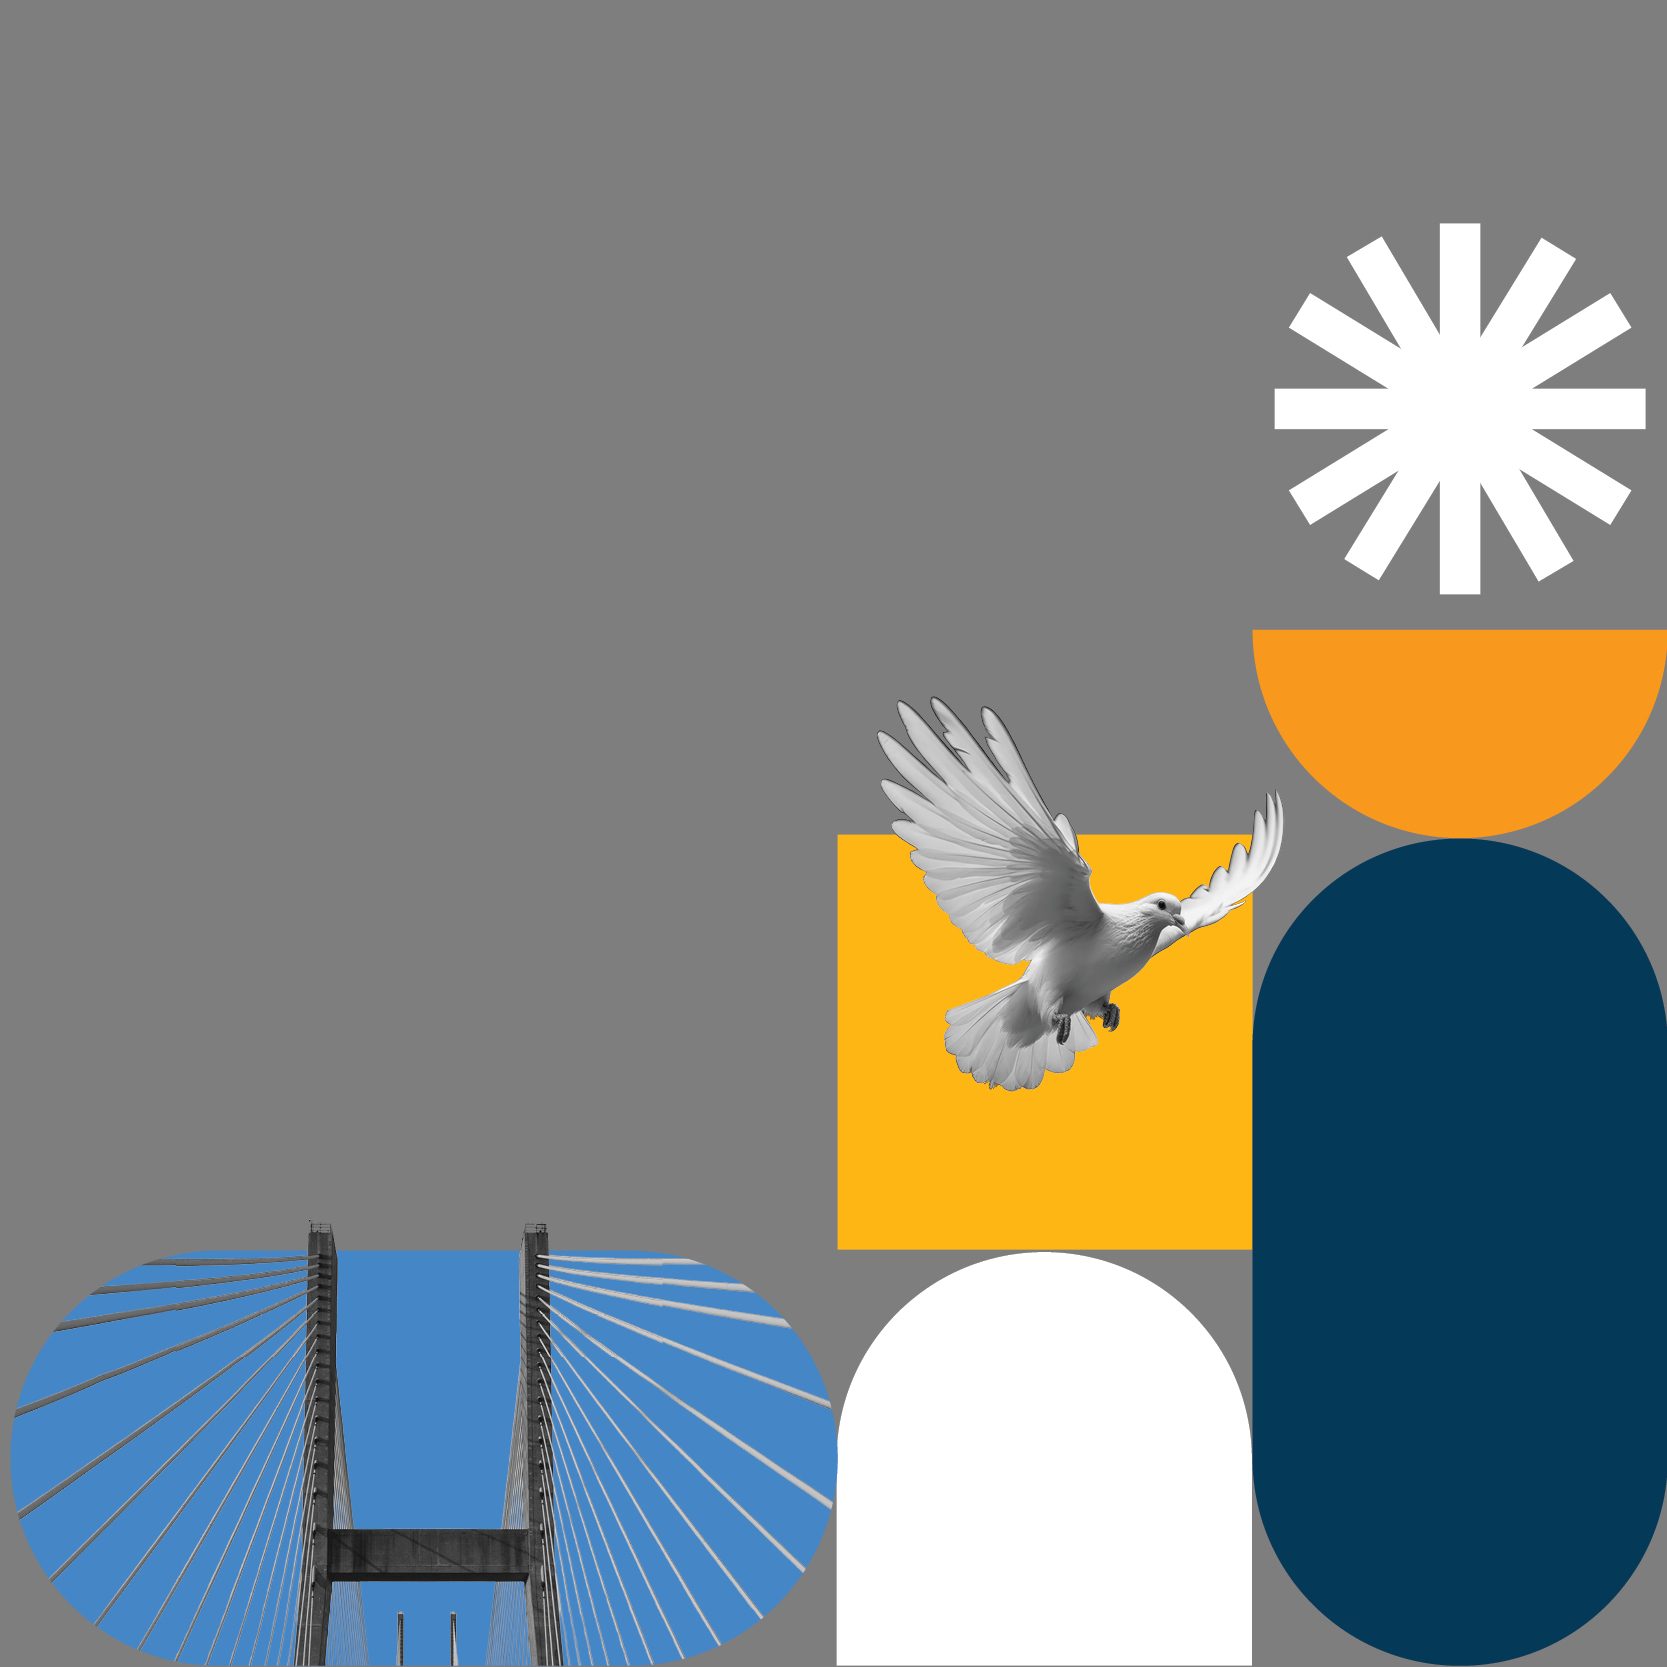
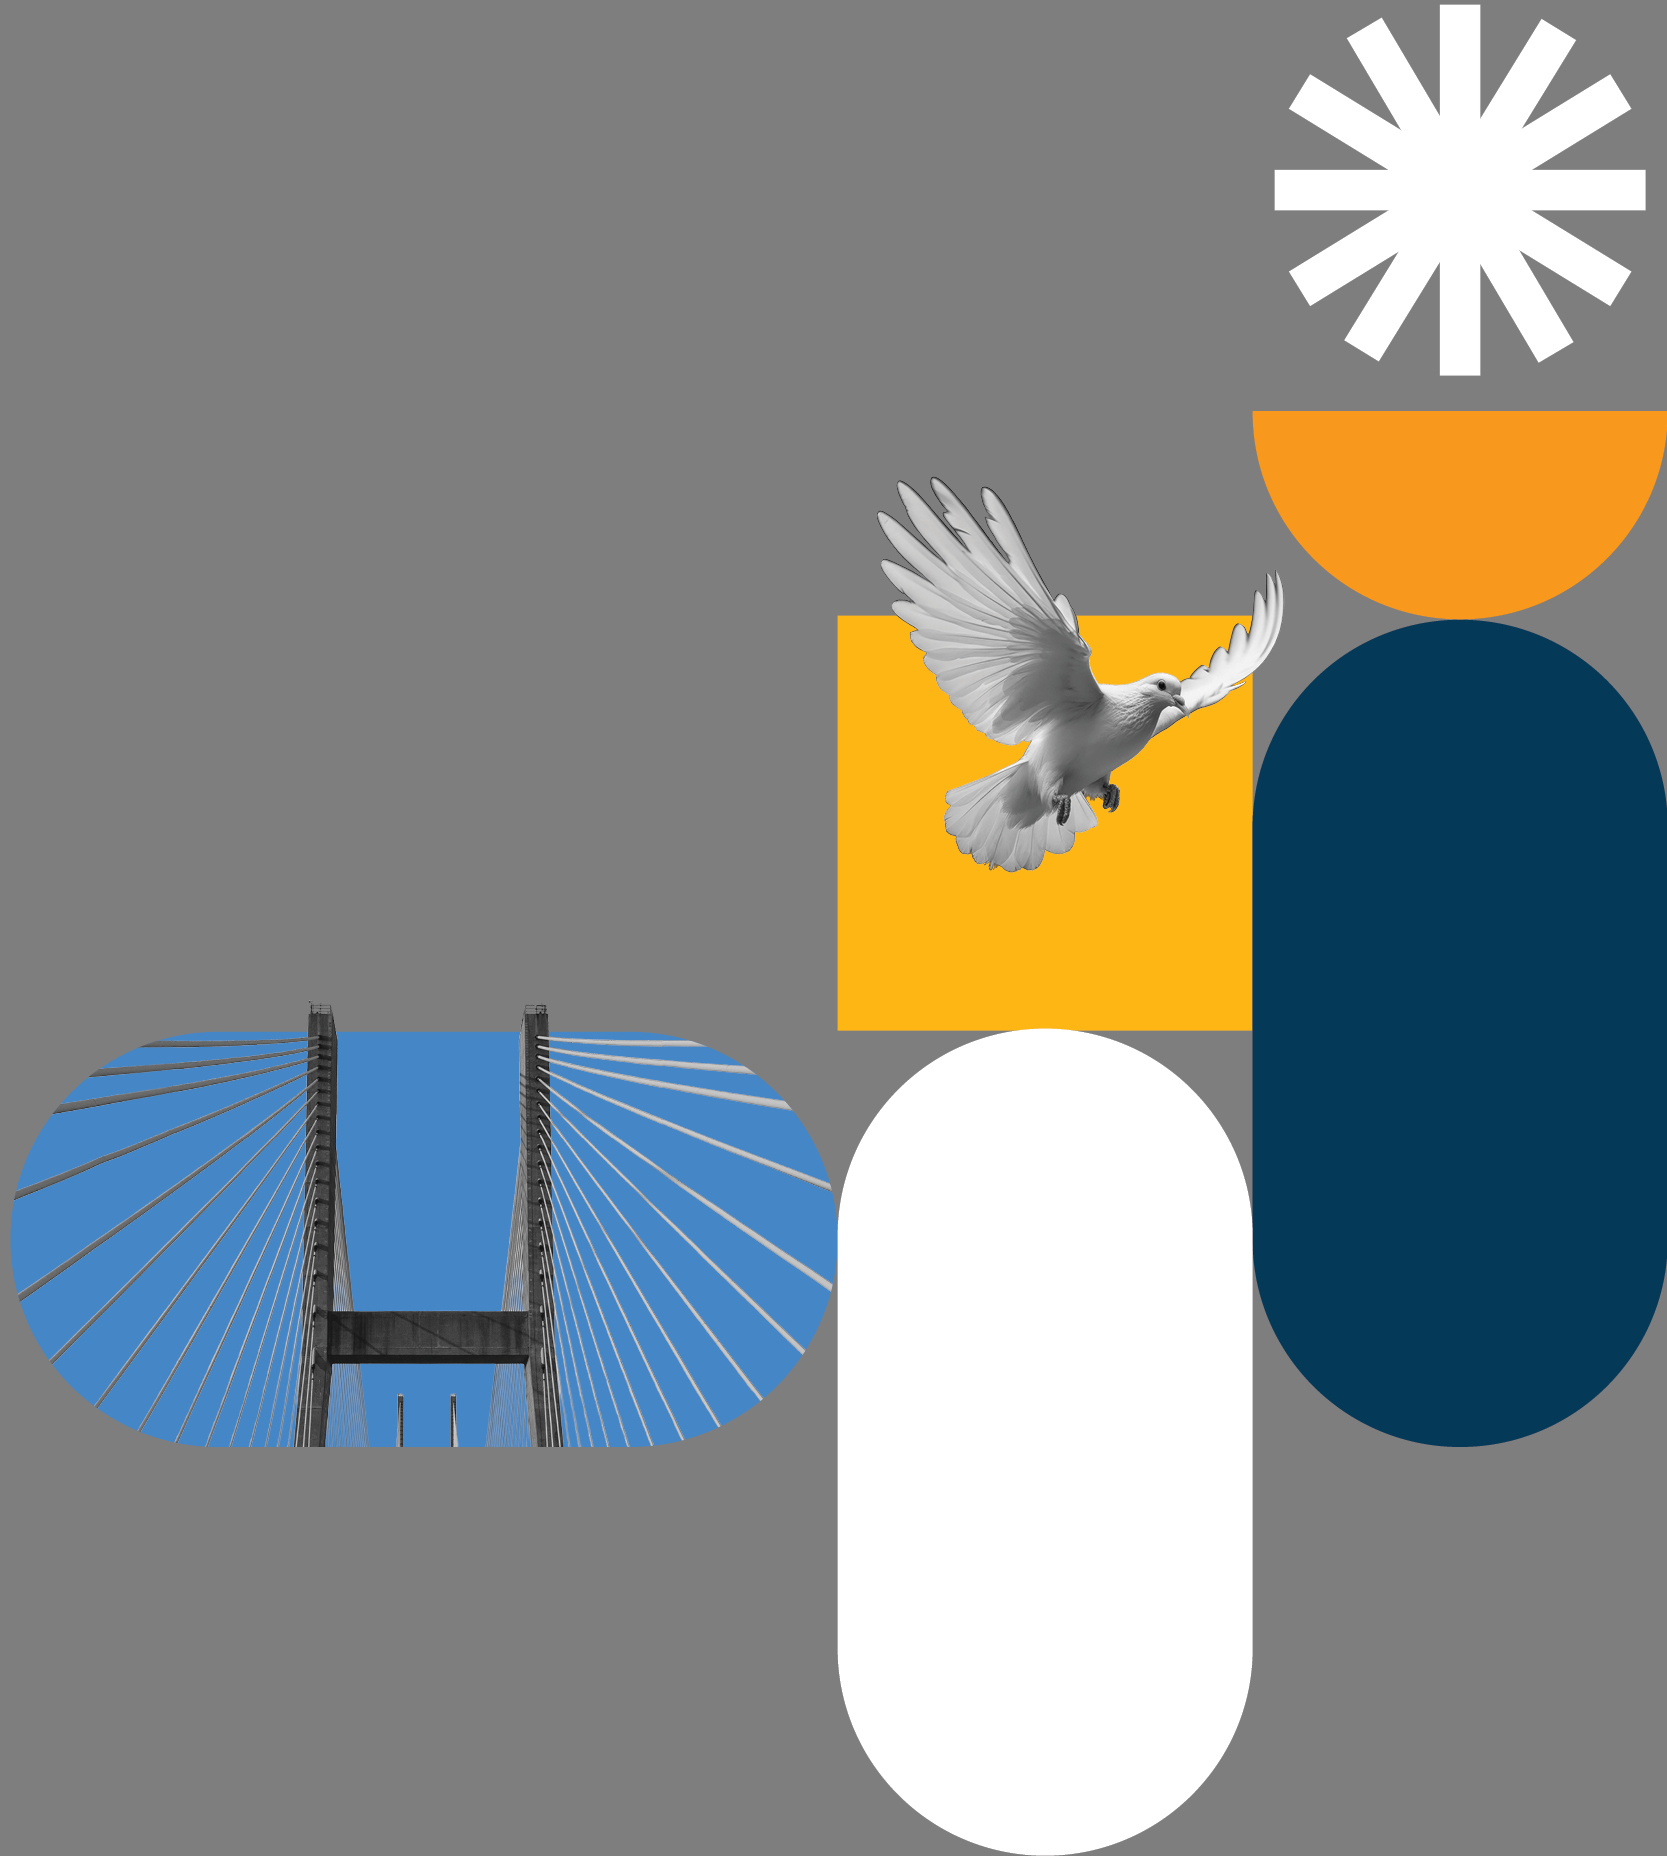
Update bridge image and remove bottom padding from image column
Swaps in updated bridge.jpg and removes padding-bottom from
.tl-bridge-right so the image sits flush at the bottom edge.
Text column padding unchanged.

diff --git a/thinking/brand-excitement.html b/thinking/brand-excitement.html
@@ -10,7 +10,7 @@
     <title>Beyond the brand police | Kelly Nicoll</title>
     <link rel="icon" type="image/svg+xml" href="../assets/icons/favicon.svg">
     <link rel="stylesheet" href="../css/styles.css?v=32">
-    <link rel="stylesheet" href="../css/thought-leadership.css?v=10">
+    <link rel="stylesheet" href="../css/thought-leadership.css?v=11">
 </head>
 <body>
 

diff --git a/css/thought-leadership.css b/css/thought-leadership.css
@@ -201,7 +201,6 @@
     align-items: flex-end;
     justify-content: flex-end;
     overflow: hidden;
-    padding-bottom: 80px;
 }
 
 .tl-bridge-right img {